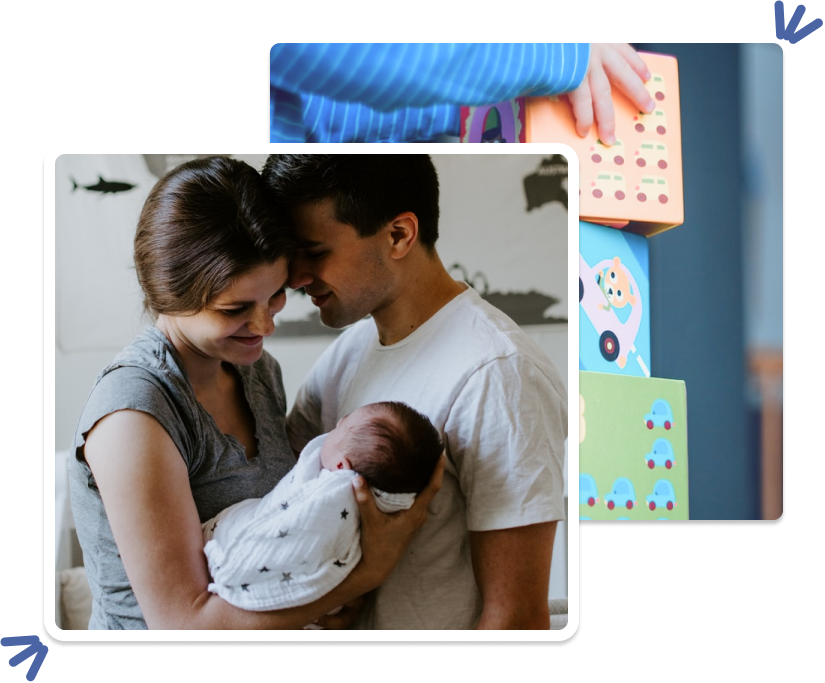
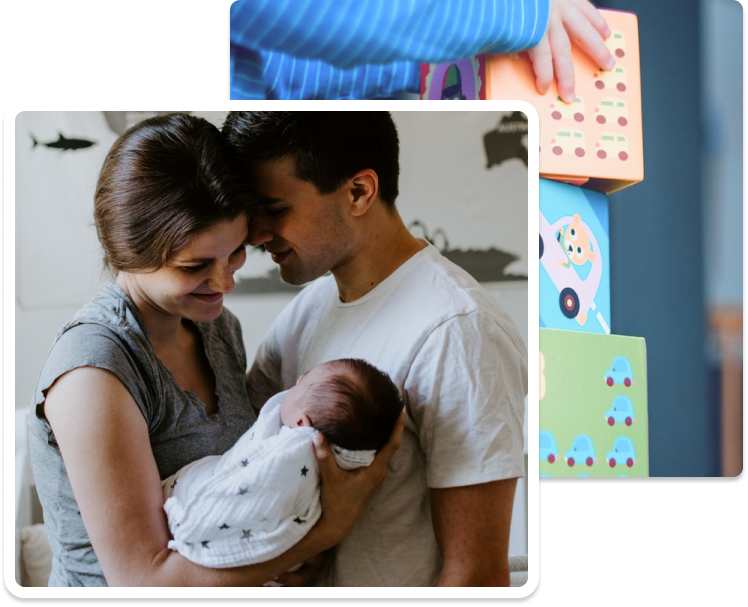
fix page Nosotros

diff --git a/pages/nosotros/index.js b/pages/nosotros/index.js
@@ -122,6 +122,14 @@ const index = () => {
             <Col xs={12} md={12} lg={6} xl={6}>
               <div className="box-img-somos-home">
                 <div className="img-somos tilt-in-fwd-tr">
+                  <div className="blue-lines-right heartbeat">
+                    <Image
+                      src="/image/blue-lines-top-right.svg"
+                      width={23}
+                      height={22}
+                      alt="imagen sorteo yesmom home"
+                    />
+                  </div>
                   <Image
                     src="/image/about.png"
                     width={80}
@@ -129,6 +137,14 @@ const index = () => {
                     layout="responsive"
                     alt="imagen sorteo yesmom home"
                   />
+                  <div className="blue-lines-left heartbeat">
+                    <Image
+                      src="/image/blue-lines-bottom-left.svg"
+                      width={23}
+                      height={22}
+                      alt="imagen sorteo yesmom home"
+                    />
+                  </div>
                 </div>
               </div>
             </Col>
@@ -247,6 +263,18 @@ const index = () => {
           }
           .img-somos {
             padding: 3rem 3.2rem;
+            position: relative;
+          }
+          .blue-lines-left, .blue-lines-right {
+            position: absolute;
+          }
+          .blue-lines-right {
+            right: 15px; 
+            top: 10px;
+          }
+          .blue-lines-left {
+            left: 15px; 
+            bottom: 12px;
           }
           .text-title-blog {
             font-family: "Clicker Script", cursive;
@@ -270,7 +298,9 @@ const index = () => {
               margin-bottom: 2.8px;
             }
             .img-somos {
-              padding: 0rem 15.2rem;
+              max-width: 58rem;
+              padding: 0rem auto;
+              margin: auto;
             }
             .box-video-somos {
               margin: 6rem 20rem 0 20rem;
